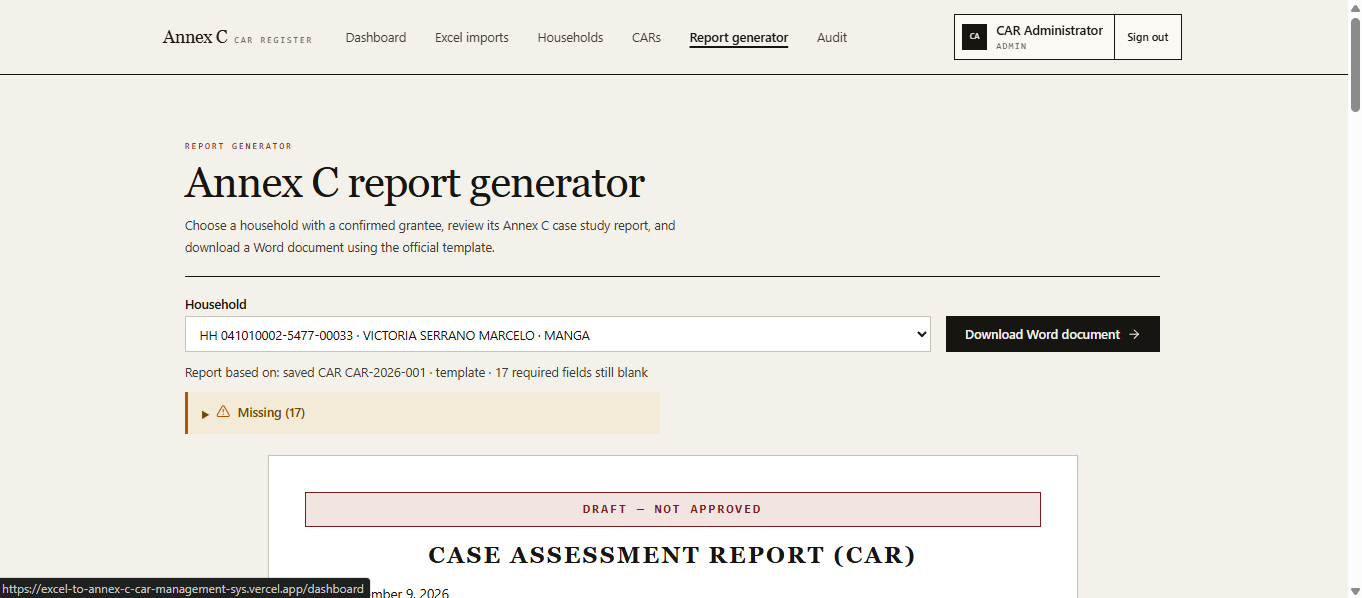
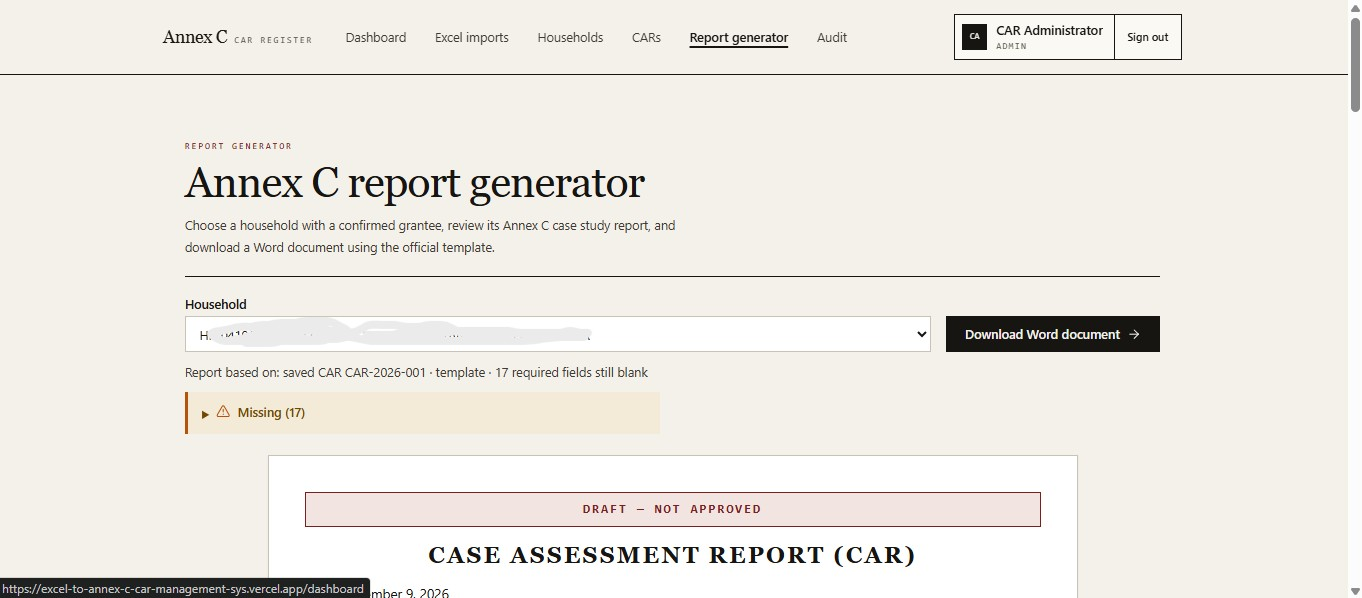
feat: add new project

diff --git a/src/data/projects.ts b/src/data/projects.ts
@@ -2,10 +2,11 @@ import orbit1 from '@/assets/images/project/orbit-1.png';
 import orbit2 from '@/assets/images/project/orbit-2.png';
 import orbit3 from '@/assets/images/project/orbit-3.png';
 import orbit4 from '@/assets/images/project/orbit-4.png';
-import pulse1 from '@/assets/images/project/pulse-1.png';
-import pulse2 from '@/assets/images/project/pulse-2.png';
-import pulse3 from '@/assets/images/project/pulse-3.png';
-import pulse4 from '@/assets/images/project/pulse-4.png';
+import apmsLandingPage from '@/assets/images/project/angkol-pritos-management-system/angkolPritosSystemLandingPage.webp';
+import apmsDashboardPage from '@/assets/images/project/angkol-pritos-management-system/angkolPritosSystemDashboardPage.webp';
+import apmsSalesPage from '@/assets/images/project/angkol-pritos-management-system/angkolPritosSystemSalesPage.webp';
+import apmsCashDrawerPage from '@/assets/images/project/angkol-pritos-management-system/angkolPritosSystemCashDrawerPage.webp';
+import apmsReportPage from '@/assets/images/project/angkol-pritos-management-system/angkolPritosSystemReportPage.webp';
 import etacsLandingPage from '@/assets/images/project/excel-to-annex-c-system/excelToAnnexlandingPage.webp';
 import etacsDashboardPage from '@/assets/images/project/excel-to-annex-c-system/excelToAnnexDashboardPage.webp';
 import etacsExcelImportPage from '@/assets/images/project/excel-to-annex-c-system/excelToAnnexExcelImportsPage.webp';
@@ -135,25 +136,45 @@ export const projects: Project[] = [
     status: 'Completed',
   },
   {
-    title: 'Pulse — Team Chat',
-    description: 'Lightweight team messaging tool with threads, search, and file sharing.',
-    tech: ['Next.js', 'Socket.io', 'PostgreSQL'],
-    gradient: '135deg, #06B6D4, #1E293B',
-    liveUrl: '#',
-    githubUrl: '#',
-    image: pulse1,
-    images: [pulse1, pulse2, pulse3, pulse4],
-    longDescription:
-      'Pulse is a lightweight team messaging tool focused on speed: threads, full-text search, and file sharing without the bloat. Messages are delivered over Socket.io with optimistic UI updates, while PostgreSQL stores the canonical history that powers instant search across every channel.',
-    features: [
-      'Real-time messaging with typing indicators and read receipts',
-      'Threaded conversations to keep channels organized',
-      'Instant full-text search across channels and files',
-      'Drag-and-drop file sharing with image previews',
-    ],
-    role: 'Full Stack Developer',
-    year: '2023',
-    status: 'In Development',
+   title: "Angkol Prito's Trucking System",
+   description:
+     "Multi-branch operations system for Angkol Prito's & Lechon Manok with role-based Admin and Employee portals, branch-specific logins, and real-time sales, payroll, and cash management.",
+   tech: [
+     'React',
+     'TypeScript',
+     'Vite',
+     'Tailwind CSS',
+     'Supabase',
+     'TanStack Query',
+     'Vercel',
+   ],
+   gradient: '135deg, #E67E22, #C0392B',
+   liveUrl: 'https://angkol-pritos-trucking-system.vercel.app/',
+   githubUrl: 'https://github.com/Ronelmelendrez/Angkol_pritos_trucking_system',
+   image: apmsLandingPage,
+   images: [
+     apmsDashboardPage,
+     apmsSalesPage,
+     apmsCashDrawerPage,
+     apmsReportPage,
+   ],
+   longDescription:
+     "Angkol Prito's Trucking System is a full-stack internal operations platform built for a multi-branch food business. It replaces scattered notebooks and manual record-keeping with one centralized system covering sales, customer orders, expenses, inventory, attendance, cash advances, utang (loans), daily cash reconciliation, payroll, and reporting. The system uses Supabase Auth and role-based access control to provide two separate experiences: an Admin portal for the owner/manager with access to every branch, and an Employee portal where each branch signs in with its own account and only sees its branch's data.",
+   features: [
+     'Role-based authentication with separate Admin and Employee portals',
+     'Branch-specific employee logins provisioned during branch creation',
+     'Branch-aware data access enforced through Supabase Row Level Security',
+     'Sales, scheduled orders, expenses, and inventory tracking',
+     'Chicken-part conversion costing and yield calculator',
+     'Attendance, cash advances, loans, and payroll with automatic deductions',
+     'Per-branch cash drawer opening, closing, and reconciliation',
+     'Reports with sales vs. expenses, profit trends, branch comparison, and insights',
+     'Mobile-first responsive design for staff working on the go',
+     'Deployed on Vercel with Supabase Postgres, Auth, and Edge Functions',
+   ],
+   role: 'Full-Stack Developer',
+   year: '2026',
+   status: 'Live',
   },
   {
    title: 'Excel-to-Annex C — CAR Management System',
@@ -196,7 +217,7 @@ export const projects: Project[] = [
    ],
    role: 'Full Stack Developer',
    year: '2026',
-   status: 'Completed',
+   status: 'Live',
   },
   {
     title: 'Fieldnote — Mobile CRM',
